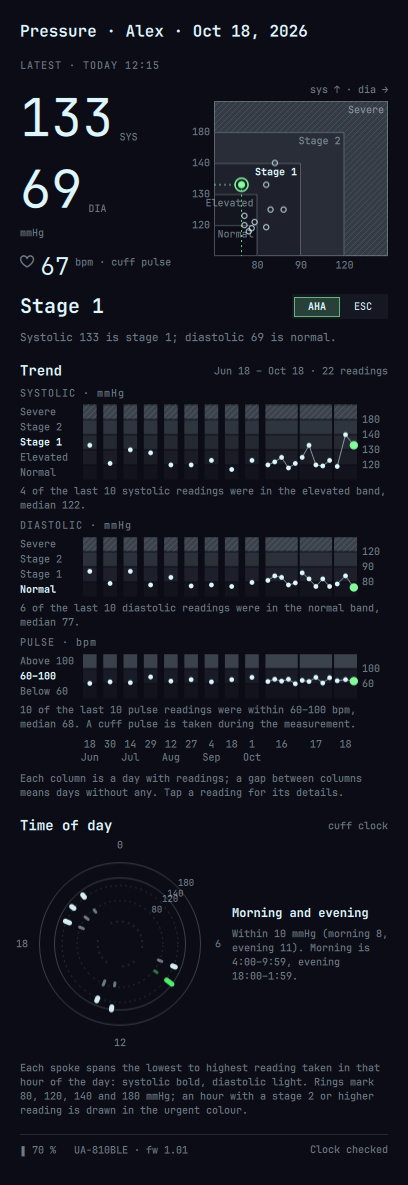
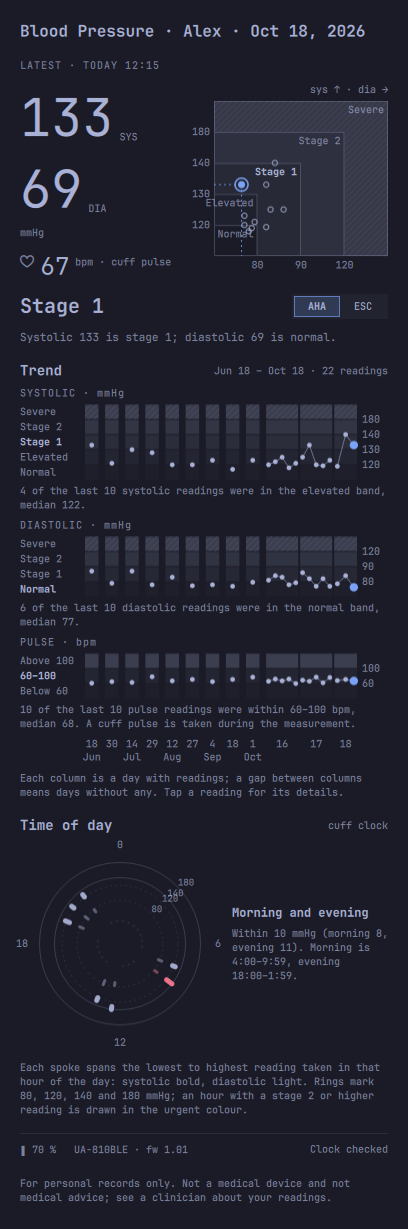
Retake the screenshots in four themes
Synthetic household only, with the Blood Pressure title: Tokyo Night,
Catppuccin Latte, Gruvbox and Rose Pine.

diff --git a/README.md b/README.md
@@ -37,11 +37,13 @@ An [Omarchy](https://omarchy.org) bar plugin for home blood-pressure monitors. T
 
 Every number and name below is synthetic, seeded by `pressure/demo.py`. None is a real measurement.
 
-| Adult, AHA table | Same reading, ESC 2024 table |
+Each one is in a different Omarchy theme: every colour comes from the active theme.
+
+| Adult, AHA table · *Tokyo Night* | Same reading, ESC 2024 table · *Catppuccin Latte* |
 |---|---|
-| ![Alex, AHA](docs/screenshots/alex-aha.png) | ![Alex, ESC](docs/screenshots/alex-esc.png) |
-| **Under 13: numbers without bands** | **Above the crisis line: severe guidance** |
-| ![Sam, under 13](docs/screenshots/sam-under13.png) | ![Jordan, severe](docs/screenshots/jordan-severe.png) |
+| ![Alex, AHA, Tokyo Night](docs/screenshots/alex-aha.png) | ![Alex, ESC, Catppuccin Latte](docs/screenshots/alex-esc.png) |
+| **Under 13: numbers without bands** · *Gruvbox* | **Above the crisis line: severe guidance** · *Rosé Pine* |
+| ![Sam, under 13, Gruvbox](docs/screenshots/sam-under13.png) | ![Jordan, severe, Rosé Pine](docs/screenshots/jordan-severe.png) |
 
 ## How it works
 
